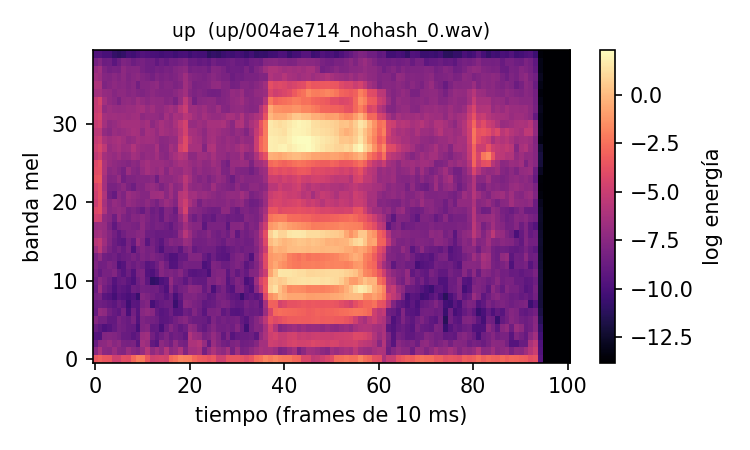
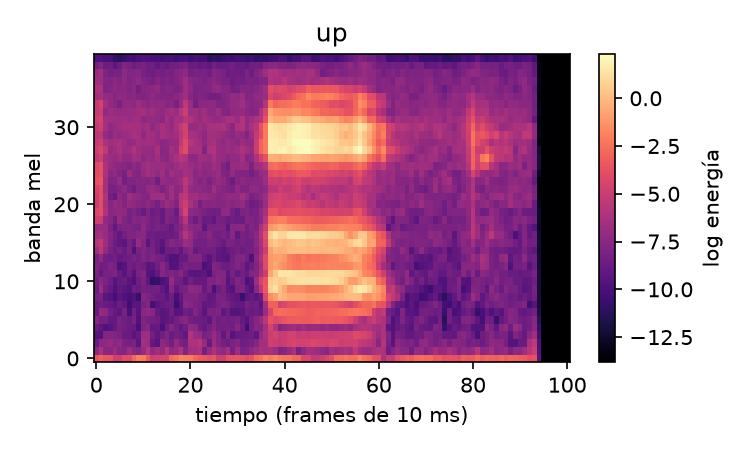
Datos de preprocesamiento
Generación de referencias y figuras para los 10 comandos.

diff --git a/src/generar_referencias.py b/src/generar_referencias.py
@@ -1,0 +1,121 @@
+"""Genera audios y tensores de referencia para validar el preprocesamiento."""
+import argparse
+import json
+import math
+import shutil
+import wave
+from pathlib import Path
+
+import numpy as np
+import torch
+import torch.nn.functional as F
+
+from src.config import F_MAX, F_MIN, HOP_LENGTH, LOG_EPS, N_FFT, N_MELS, NUM_SAMPLES, SAMPLE_RATE, WIN_LENGTH
+
+REFERENCE_COMMANDS = ["yes", "no", "up", "down", "left", "right", "on", "off", "stop", "go"]
+
+
+def load_wav(path: Path) -> torch.Tensor:
+    with wave.open(str(path), "rb") as audio:
+        if (audio.getnchannels(), audio.getsampwidth(), audio.getframerate()) != (1, 2, SAMPLE_RATE):
+            raise ValueError(f"Formato inesperado en {path}")
+        samples = np.frombuffer(audio.readframes(audio.getnframes()), dtype="<i2")
+    return torch.from_numpy(samples.astype(np.float32) / 32768.0)
+
+
+def fix_length(audio: torch.Tensor) -> torch.Tensor:
+    if audio.numel() >= NUM_SAMPLES:
+        return audio[:NUM_SAMPLES]
+    return F.pad(audio, (0, NUM_SAMPLES - audio.numel()))
+
+
+def hz_to_mel(frequency: torch.Tensor) -> torch.Tensor:
+    return 2595.0 * torch.log10(1.0 + frequency / 700.0)
+
+
+def mel_to_hz(mel: torch.Tensor) -> torch.Tensor:
+    return 700.0 * (10.0 ** (mel / 2595.0) - 1.0)
+
+
+def mel_filterbank() -> torch.Tensor:
+    frequencies = torch.linspace(0, SAMPLE_RATE // 2, N_FFT // 2 + 1, dtype=torch.float64)
+    points = mel_to_hz(torch.linspace(hz_to_mel(torch.tensor(F_MIN)), hz_to_mel(torch.tensor(F_MAX)), N_MELS + 2, dtype=torch.float64))
+    differences = points[1:] - points[:-1]
+    slopes = points[None, :] - frequencies[:, None]
+    down = -slopes[:, :-2] / differences[:-1]
+    up = slopes[:, 2:] / differences[1:]
+    return torch.clamp(torch.minimum(down, up), min=0.0).float()
+
+
+def log_mel(audio: torch.Tensor) -> torch.Tensor:
+    window = torch.hann_window(WIN_LENGTH)
+    spectrum = torch.stft(
+        audio,
+        n_fft=N_FFT,
+        hop_length=HOP_LENGTH,
+        win_length=WIN_LENGTH,
+        window=window,
+        center=True,
+        pad_mode="reflect",
+        return_complex=True,
+    )
+    mel = mel_filterbank().T @ (spectrum.abs() ** 2)
+    return torch.log(mel + LOG_EPS).float()
+
+
+def find_reference(dataset_dir: Path, command: str) -> Path:
+    candidates = sorted((dataset_dir / command).glob("*.wav"))
+    if not candidates:
+        raise FileNotFoundError(f"No hay WAV para el comando {command}")
+    return candidates[0]
+
+
+def main() -> None:
+    parser = argparse.ArgumentParser()
+    parser.add_argument("--dataset", type=Path, required=True)
+    parser.add_argument("--output", type=Path, default=Path("resultados/referencias_preprocesamiento"))
+    args = parser.parse_args()
+
+    args.output.mkdir(parents=True, exist_ok=True)
+    contract = {
+        "sample_rate": SAMPLE_RATE,
+        "num_samples": NUM_SAMPLES,
+        "n_fft": N_FFT,
+        "win_length": WIN_LENGTH,
+        "hop_length": HOP_LENGTH,
+        "window": "hann",
+        "center": True,
+        "pad_mode": "reflect",
+        "n_mels": N_MELS,
+        "f_min": F_MIN,
+        "f_max": F_MAX,
+        "mel_scale": "htk",
+        "log_eps": LOG_EPS,
+        "normalization": "none",
+        "output_shape": [1, 1, N_MELS, NUM_SAMPLES // HOP_LENGTH + 1],
+        "commands": REFERENCE_COMMANDS,
+    }
+    (args.output / "contrato.json").write_text(json.dumps(contract, indent=2) + "\n", encoding="utf-8")
+
+    for command in REFERENCE_COMMANDS:
+        source = find_reference(args.dataset, command)
+        destination = args.output / f"{command}.wav"
+        shutil.copy2(source, destination)
+        tensor = log_mel(fix_length(load_wav(source)))
+        np.save(args.output / f"{command}_logmel.npy", tensor.numpy())
+        metadata = {
+            "command": command,
+            "source": str(source),
+            "shape": list(tensor.shape),
+            "dtype": str(tensor.numpy().dtype),
+            "min": float(tensor.min()),
+            "max": float(tensor.max()),
+            "mean": float(tensor.mean()),
+            "std": float(tensor.std()),
+        }
+        (args.output / f"{command}.json").write_text(json.dumps(metadata, indent=2) + "\n", encoding="utf-8")
+        print(f"{command}: {tuple(tensor.shape)} -> {destination.name}, {command}_logmel.npy")
+
+
+if __name__ == "__main__":
+    main()

diff --git a/src/validar_referencias.py b/src/validar_referencias.py
@@ -1,0 +1,55 @@
+"""Valida que las referencias guardadas coincidan con el preprocesamiento actual."""
+import argparse
+import json
+import wave
+from pathlib import Path
+
+import numpy as np
+import torch
+import torch.nn.functional as F
+
+from src.config import F_MAX, F_MIN, HOP_LENGTH, LOG_EPS, N_FFT, N_MELS, NUM_SAMPLES, SAMPLE_RATE, WIN_LENGTH
+from src.generar_referencias import log_mel
+
+
+def load_wav(path: Path) -> torch.Tensor:
+    with wave.open(str(path), "rb") as audio:
+        if (audio.getnchannels(), audio.getsampwidth(), audio.getframerate()) != (1, 2, SAMPLE_RATE):
+            raise ValueError(f"Formato inesperado en {path}")
+        samples = np.frombuffer(audio.readframes(audio.getnframes()), dtype="<i2")
+    return torch.from_numpy(samples.astype(np.float32) / 32768.0)
+
+
+def fix_length(audio: torch.Tensor) -> torch.Tensor:
+    if audio.numel() >= NUM_SAMPLES:
+        return audio[:NUM_SAMPLES]
+    return F.pad(audio, (0, NUM_SAMPLES - audio.numel()))
+
+
+def main() -> None:
+    parser = argparse.ArgumentParser()
+    parser.add_argument("--references", type=Path, default=Path("resultados/referencias_preprocesamiento"))
+    parser.add_argument("--atol", type=float, default=1e-6)
+    args = parser.parse_args()
+
+    contract = json.loads((args.references / "contrato.json").read_text(encoding="utf-8"))
+    commands = contract["commands"]
+    failures = []
+
+    for command in commands:
+        expected = np.load(args.references / f"{command}_logmel.npy")
+        actual = log_mel(fix_length(load_wav(args.references / f"{command}.wav"))).numpy()
+        max_abs_diff = float(np.max(np.abs(actual - expected)))
+        mean_abs_diff = float(np.mean(np.abs(actual - expected)))
+        valid = expected.shape == (N_MELS, NUM_SAMPLES // HOP_LENGTH + 1) and expected.dtype == np.float32 and np.isfinite(expected).all() and max_abs_diff <= args.atol
+        print(f"{command}: max_abs_diff={max_abs_diff:.3g}, mean_abs_diff={mean_abs_diff:.3g}, valid={valid}")
+        if not valid:
+            failures.append(command)
+
+    if failures:
+        raise SystemExit(f"Referencias inválidas: {', '.join(failures)}")
+    print(f"OK: {len(commands)} referencias validadas con tolerancia {args.atol:g}")
+
+
+if __name__ == "__main__":
+    main()

diff --git a/src/generar_figuras_referencias.py b/src/generar_figuras_referencias.py
@@ -1,0 +1,33 @@
+"""Genera una figura log-mel de referencia para cada comando."""
+import argparse
+import json
+from pathlib import Path
+
+import matplotlib.pyplot as plt
+import numpy as np
+
+
+def main() -> None:
+    parser = argparse.ArgumentParser()
+    parser.add_argument("--references", type=Path, default=Path("resultados/referencias_preprocesamiento"))
+    parser.add_argument("--output", type=Path, default=Path("resultados/ejemplos_espectrogramas"))
+    args = parser.parse_args()
+
+    commands = json.loads((args.references / "contrato.json").read_text(encoding="utf-8"))["commands"]
+    args.output.mkdir(parents=True, exist_ok=True)
+    for command in commands:
+        tensor = np.load(args.references / f"{command}_logmel.npy")
+        figure, axis = plt.subplots(figsize=(5, 3))
+        image = axis.imshow(tensor, origin="lower", aspect="auto", cmap="magma")
+        axis.set_title(command)
+        axis.set_xlabel("tiempo (frames de 10 ms)")
+        axis.set_ylabel("banda mel")
+        figure.colorbar(image, ax=axis, label="log energía")
+        figure.tight_layout()
+        figure.savefig(args.output / f"{command}.png", dpi=150)
+        plt.close(figure)
+        print(f"{command}: {tuple(tensor.shape)} -> {command}.png")
+
+
+if __name__ == "__main__":
+    main()

diff --git a/src/config.py b/src/config.py
@@ -1,8 +1,8 @@
 """Constantes compartidas del proyecto.
 
-Los valores de AUDIO son PROVISIONALES hasta que el equipo cierre el contrato
-de entrada (ver docs/contrato_entrada.md). Cualquier cambio aquí debe
-reflejarse también en la app móvil.
+ Los valores de AUDIO siguen el contrato definitivo de entrada
+ (ver docs/contrato_entrada.md). Cualquier cambio aquí debe reflejarse también
+ en la app móvil.
 """
 import os
 import random
@@ -10,7 +10,7 @@ import random
 COMMANDS = ["yes", "no", "up", "down", "left", "right", "on", "off", "stop", "go"]
 LABEL_TO_IDX = {c: i for i, c in enumerate(COMMANDS)}
 
-# --- Contrato de entrada (PROVISIONAL) ---
+# --- Contrato de entrada ---
 SAMPLE_RATE = 16_000   # Hz
 CLIP_SECONDS = 1.0
 NUM_SAMPLES = int(SAMPLE_RATE * CLIP_SECONDS)

diff --git a/docs/contrato_entrada.md b/docs/contrato_entrada.md
@@ -1,4 +1,4 @@
-# Contrato de entrada del modelo (BORRADOR)
+# Contrato de entrada del modelo (DEFINITIVO)
 
 ## Por qué existe este contrato
 
@@ -17,7 +17,7 @@ El modelo no recibe sonido, sino un espectrograma: una imagen que muestra qué f
 | Espectro | Potencia (`|STFT|^2`), `center=True`, relleno reflect | Confirmar que TypeScript replica el relleno |
 | Banco mel | 40 bandas, 20–8000 Hz, escala HTK, sin normalización | |
 | Logaritmo | `log(mel + 1e-6)` | |
-| Normalización final | Por definir: media/desv. global del train o por ejemplo | Si es global, guardar los valores en el contrato |
+| Normalización final | Ninguna | El modelo recibe directamente el log-mel calculado en el paso anterior |
 | Forma del tensor | `[1, 1, 40, 101]` float32 (batch, canal, mel, frames) | 101 = 1 + 16000/160 con `center=True` |
 | Salida | `[1, 10]` logits en el orden de `COMMANDS` | yes, no, up, down, left, right, on, off, stop, go |
 
@@ -44,13 +44,12 @@ El modelo no recibe sonido, sino un espectrograma: una imagen que muestra qué f
 ## Qué está fijo y qué es elección del equipo
 
 - **Fijado por el dataset:** 16 kHz, mono, 1 segundo.
-- **Elección del equipo (valores estándar, pero podrían ser otros):** 30 ms de ventana, 40 bandas, normalización final. Lo importante es decidirlos una vez, justificarlos y no cambiarlos después.
+- **Elección del equipo (valores estándar, pero podrían ser otros):** 30 ms de ventana, 40 bandas y ausencia de normalización final. Lo importante es decidirlos una vez, justificarlos y no cambiarlos después.
 
 ## Preguntas abiertas
 
 - ¿El espectrograma va dentro del grafo ONNX (simplifica la app) o se reimplementa en TypeScript? Consultar al profesor.
 - ¿Clase extra de silencio/desconocido? Cambiaría la salida a `[1, 11]` o `[1, 12]`.
-- Normalización final: ¿media y desviación global calculadas sobre el conjunto de entrenamiento, o normalización por ejemplo?
 
 ## Referencias
 
